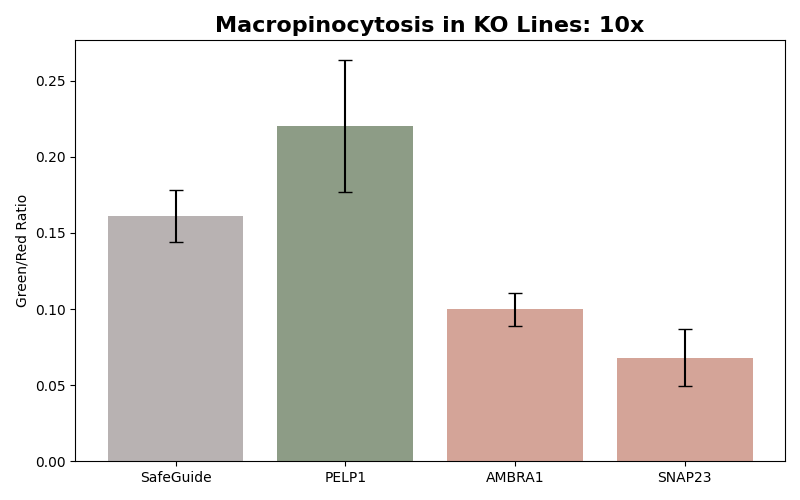
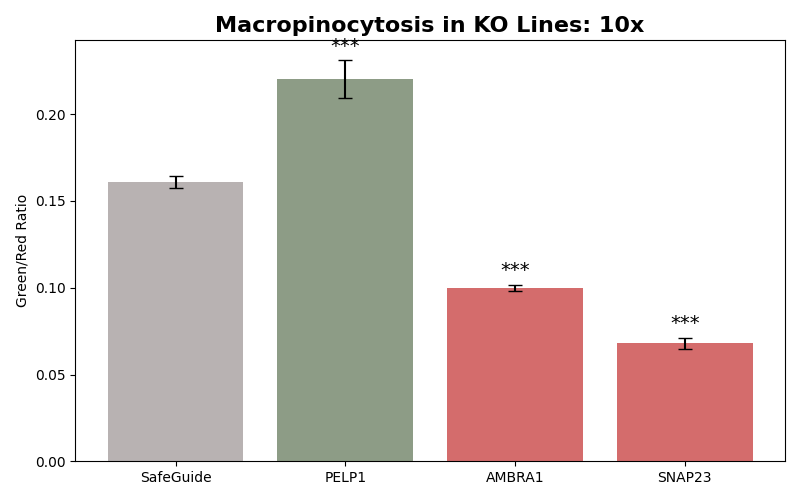
fixed plots

diff --git a/analyze_macropinocytosis_data.py b/analyze_macropinocytosis_data.py
@@ -2,6 +2,7 @@ import os
 import numpy as np
 import matplotlib.pyplot as plt
 import matplotlib.image as mpimg
+from scipy.stats import ttest_ind
 
 ## CONFIGURATION ##
 # Choose thresholds to avoid counting background noise
@@ -53,38 +54,61 @@ def perform_macropinocytosis_analysis(choice):
     base_folder = f"Macropinocytosis {choice} Images"
     
     means = []
-    stds = []
+    sems = []  # Changed from stds to sems
+    all_scores = []
 
     # Define the colors for each condition
     color_map = {
-        "PELP1": "#8D9C86",
-        "SafeGuide": "#B8B2B2",
-        "AMBRA1": "#D4A498",
-        "SNAP23": "#D4A498"
+        "PELP1": "#8D9C86",   # greenish for increase
+        "SafeGuide": "#B8B2B2", # neutral
+        "AMBRA1": "#D46C6C",  # reddish for decrease
+        "SNAP23": "#D46C6C"
     }
 
     for condition in conditions:
         folder_path = os.path.join(base_folder, f"{condition} {choice}")
         scores = analyze_condition(folder_path)
+        all_scores.append(scores)
 
         if scores:  # only compute if there are images
             mean_ratio = np.mean(scores)
             std_ratio = np.std(scores)
+            n = len(scores)
+            sem = std_ratio / np.sqrt(n)  # Calculate SEM instead of SD
         else:
             mean_ratio = 0
-            std_ratio = 0
+            sem = 0
 
         means.append(mean_ratio)
-        stds.append(std_ratio)
-
-    # Assign colors in the order of conditions
-    bar_colors = [color_map.get(cond, "#AAAAAA") for cond in conditions]  # default grey if missing
+        sems.append(sem)  # Store SEM instead of SD
 
     # Plotting
     plt.figure(figsize=(8,5))
-    bars = plt.bar(conditions, means, yerr=stds, capsize=5, color=bar_colors)
+    bars = plt.bar(conditions, means, yerr=sems, capsize=5, color=[color_map.get(c, "#AAAAAA") for c in conditions])
     plt.ylabel("Green/Red Ratio")
     plt.title(f"Macropinocytosis in KO Lines: {choice}", fontsize=16, weight='bold')
+
+    # Add significance vs SafeGuide
+    control_scores = all_scores[conditions.index("SafeGuide")]
+    y_max = max([m + s for m, s in zip(means, sems)]) * 1.1  # space above tallest bar
+
+    for i, scores in enumerate(all_scores):
+        if conditions[i] == "SafeGuide":
+            continue  # skip control itself
+        if not scores or not control_scores:
+            continue
+        stat, p = ttest_ind(scores, control_scores)
+        if p < 0.001:
+            sig = "***"
+        elif p < 0.01:
+            sig = "**"
+        elif p < 0.05:
+            sig = "*"
+        else:
+            sig = ""
+        if sig:
+            plt.text(i, means[i] + sems[i] + 0.02 * y_max, sig, ha='center', fontsize=14, color='black')
+
     plt.tight_layout()
     plt.show()
 
